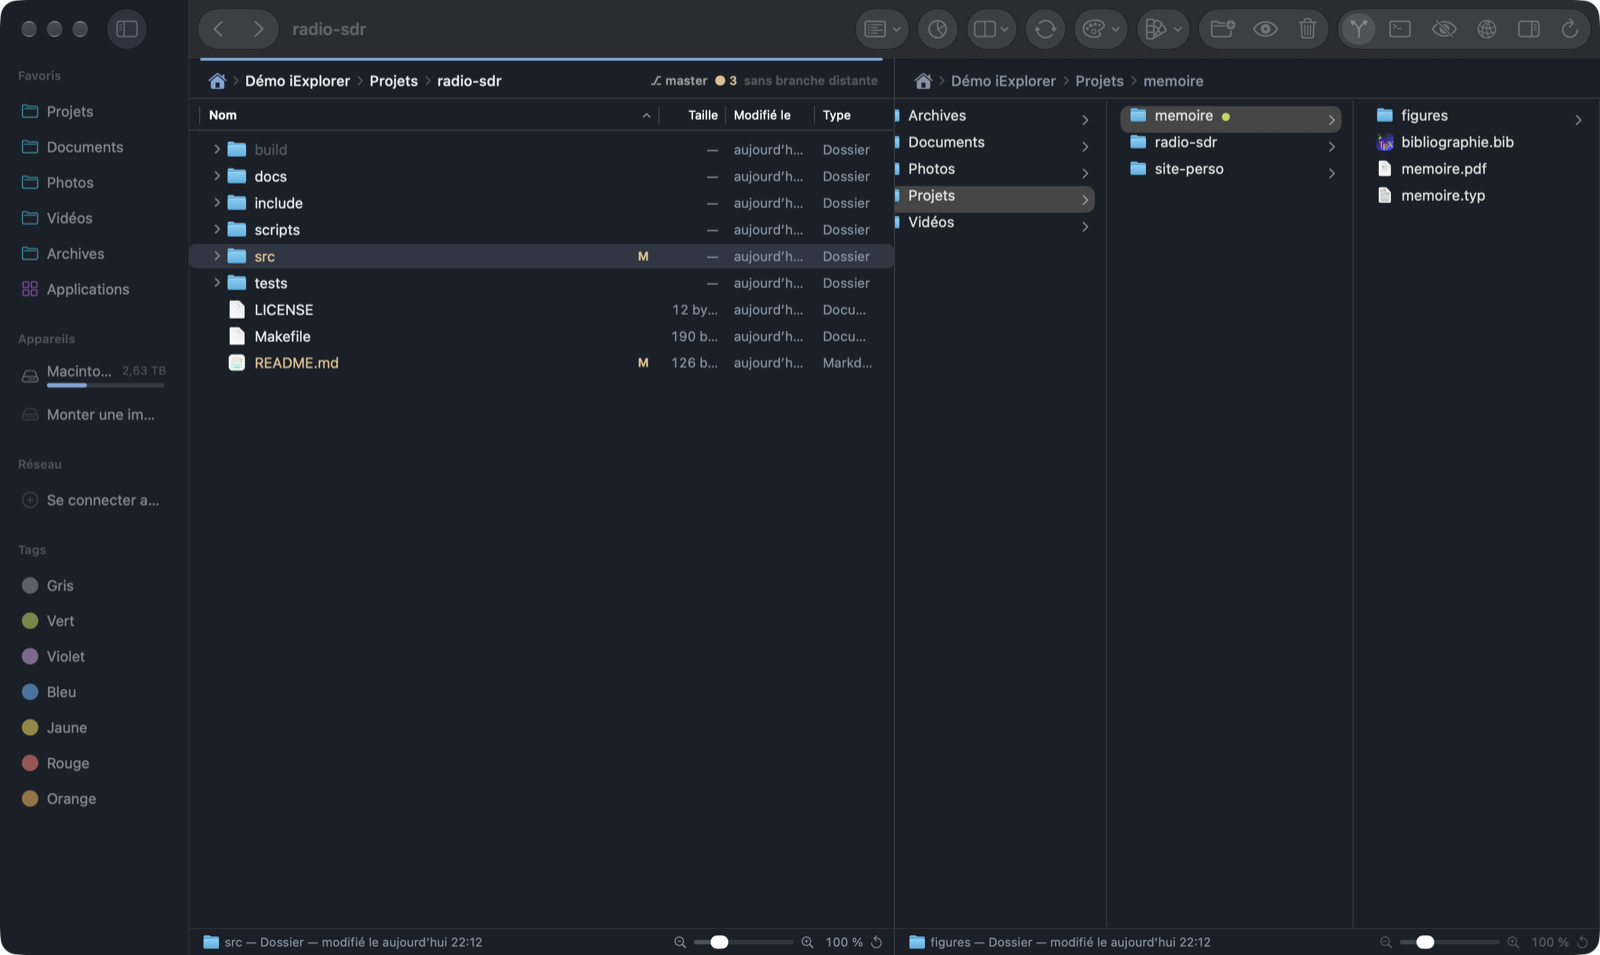
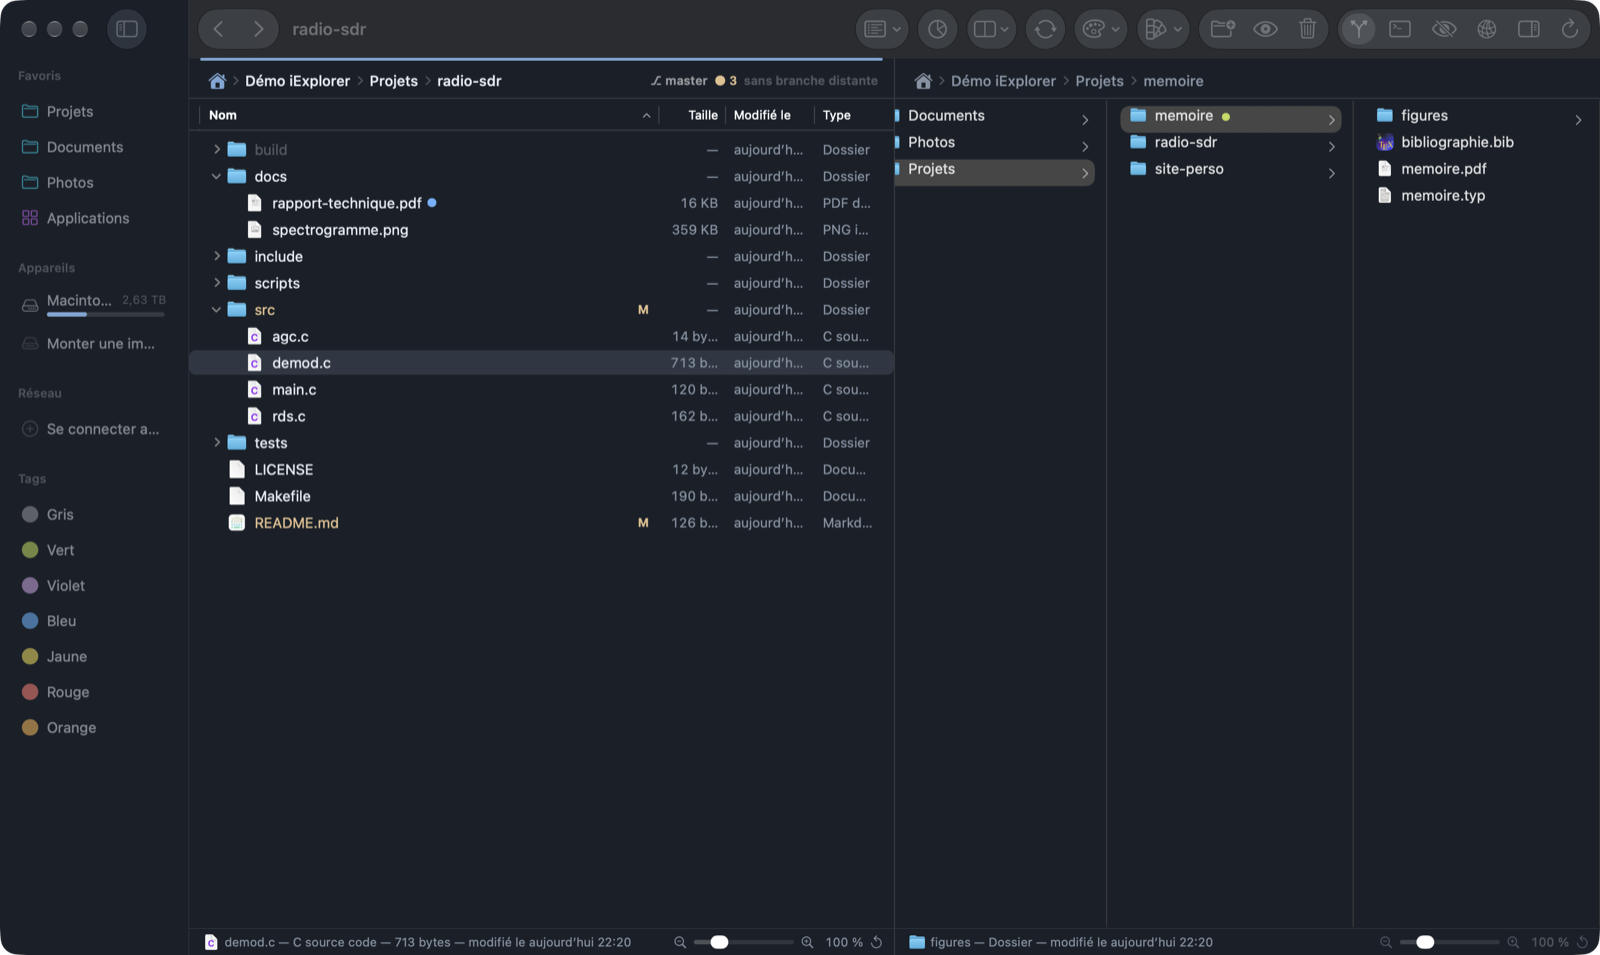
README : capture principale avec dossiers dépliés (version 1.0.4)

diff --git a/README.md b/README.md
@@ -3,7 +3,7 @@
 **Gestionnaire de fichiers natif pour macOS** : jusqu’à quatre panneaux avec onglets, état Git, terminal intégré,
 serveurs distants, analyse de l’espace disque et thèmes. Écrit en Swift / AppKit, sans Electron.
 
-![iExplorer : deux panneaux, détails et colonnes, état Git](docs/images/hero.png)
+![iExplorer : deux panneaux, dossiers dépliés en liste, colonnes, état Git](docs/images/hero.png)
 
 ## Fonctionnalités
 
